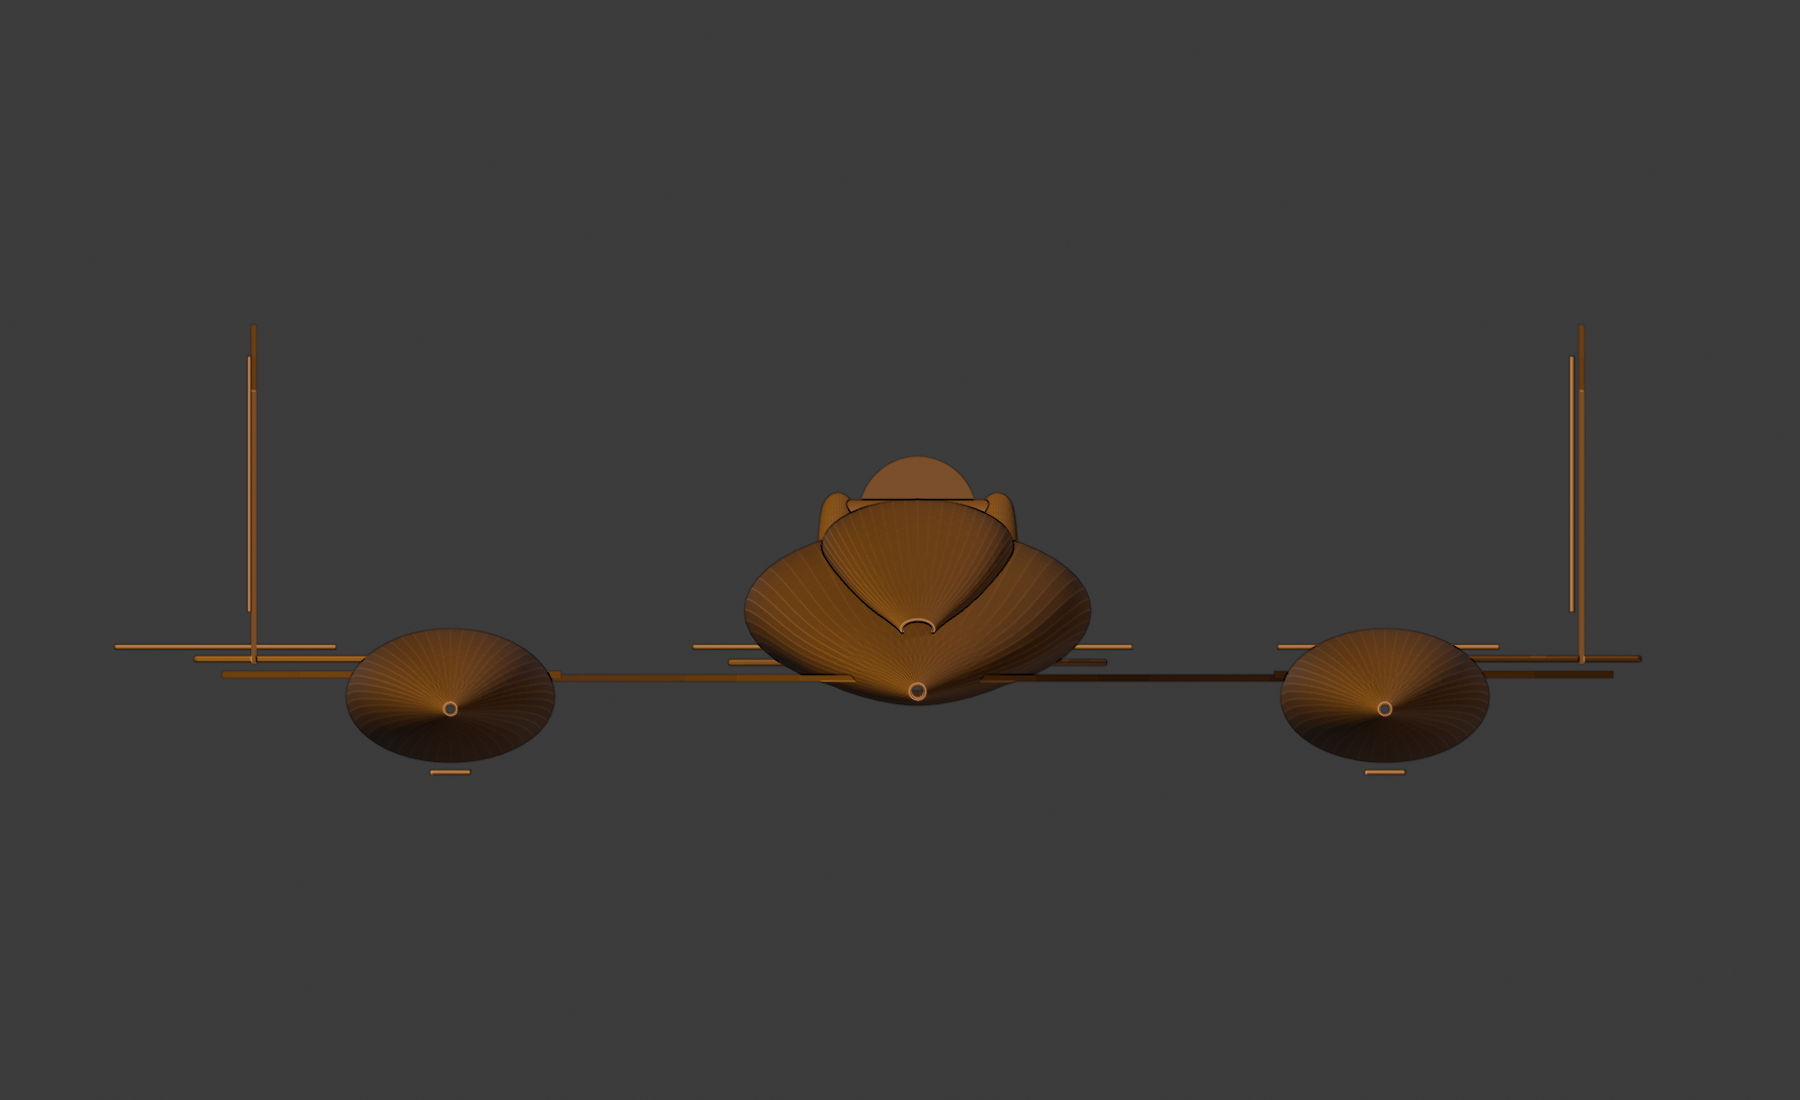
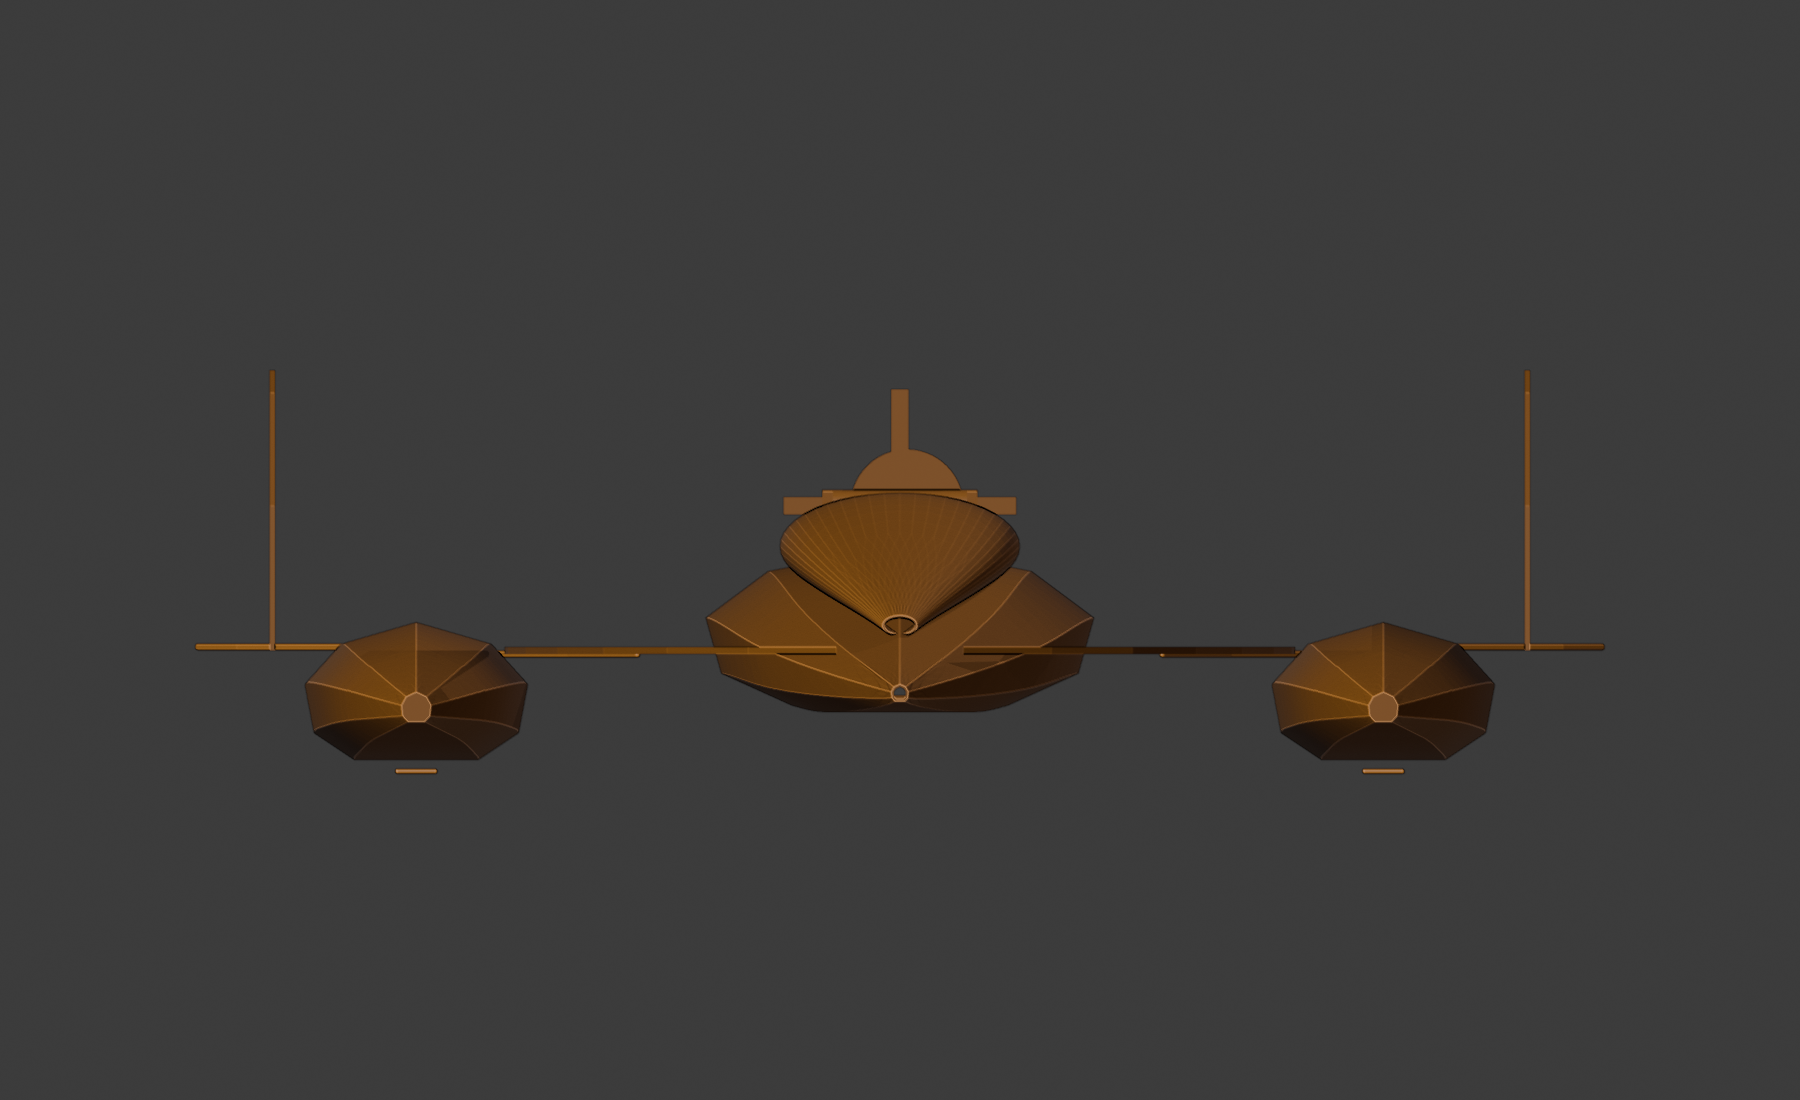
Show best measured master-match in README

Changed region(s): [[0.0622, 0.3091, 0.9022, 0.7109], [0.8089, 0.6491, 0.84, 0.68], [0.7467, 0.5564, 0.7778, 0.5873]]

diff --git a/README.md b/README.md
@@ -4,8 +4,8 @@ Futuristisches modulares RC-HydroFoam nach dem verbindlichen Final-Master-Mockup
 
 ## Aktueller Konstruktionsstand
 
-**Version:** v17_FINAL_WEIGHT  
-**Status:** Modularer Flightweight-CAD-Stand; 34/34 Teile passen auf Bambu P2S, Strukturmasse ca. 274 g. Final-Master-Außenform bleibt verbindlich; physische Abnahme steht noch aus.
+**Version:** v20_IDENTITY_MATCH  
+**Status:** Aktuell bester gemessener Master-Match. Mean-IoU 0,2623 (Top 0,2514 / Side 0,2731). Noch nicht 1:1, daher WIP. README zeigt stets den besten gemessenen Stand, nicht die höchste Versionsnummer.
 
 ### Isometrisch
 ![Aktueller ISO-Stand](docs/construction-images/current/assembled_iso.png)
@@ -30,12 +30,25 @@ Futuristisches modulares RC-HydroFoam nach dem verbindlichen Final-Master-Mockup
 - austauschbare PETG-Kufen für Wasser, Rasen und festen Sand
 
 ## Versionierte Konstruktionsbilder
-Ältere Stände bleiben unter `docs/construction-images/vXX/` erhalten. Die README referenziert ausschließlich `current/`, damit auf GitHub immer automatisch der neueste Stand sichtbar ist.
+Ältere Stände bleiben unter `docs/construction-images/vXX/` erhalten. Die README referenziert ausschließlich `current/`, damit auf GitHub immer der aktuell beste gemessene Stand sichtbar ist.
 
 ## Aktuelle technische Basis
 Siehe `docs/ENGINEERING_CALCS_v02.md`.
 
 
 
+
+
+
+
+## Master-Overlay
+
+**Top:** Ziel grün, CAD rot, Überdeckung gelb.
+
+![Top Overlay](docs/comparison/current/top_overlay.png)
+
+**Side:**
+
+![Side Overlay](docs/comparison/current/side_overlay.png)
 
 
